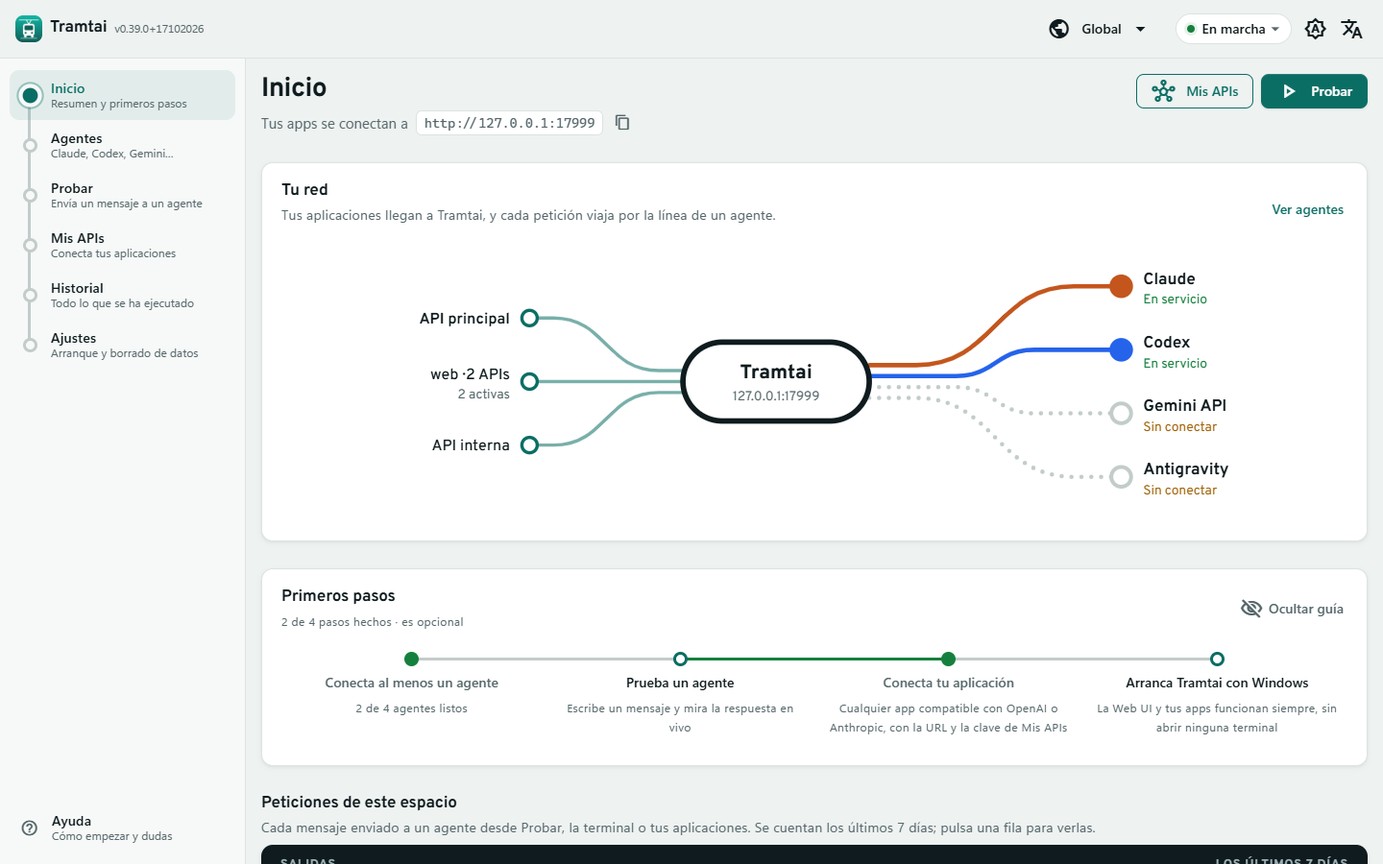
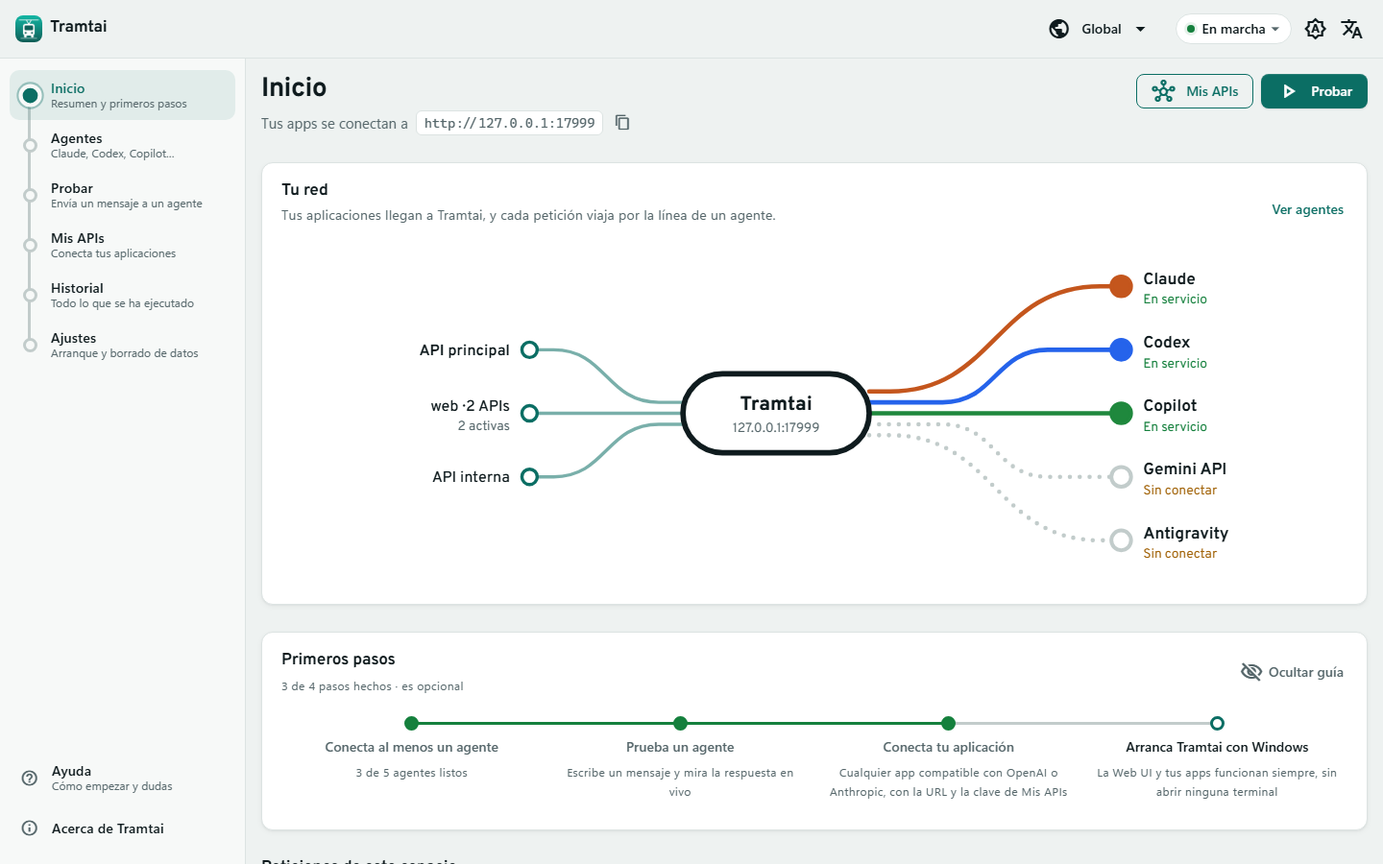
feat(site): sección de agentes, Copilot, funciones nuevas y capturas
- Portada: Copilot como quinta línea del mapa y en el texto de entrada.
- Sección «Agentes» con una tarjeta por agente: cómo se conecta y qué admite.
- Funciones de cuatro en cuatro: API propia con OpenAPI, Ayuda dentro de la app y agentes sin herramientas.
- Capturas nuevas de Agentes y de Probar con Ver como código; Inicio al día con Copilot.
- Ayuda del sitio: cómo conectar Copilot y su token.

diff --git a/site/index.html b/site/index.html
@@ -4,9 +4,9 @@
 <meta charset="utf-8">
 <meta name="viewport" content="width=device-width, initial-scale=1">
 <title>Tramtai · Tus agentes de IA como una API local</title>
-<meta name="description" content="Tramtai convierte Claude Code, Codex, Antigravity y la API de Gemini en una API local compatible con OpenAI y Anthropic, en tu propio equipo.">
+<meta name="description" content="Tramtai convierte Claude Code, Codex, GitHub Copilot CLI, Antigravity y la API de Gemini en una API local compatible con OpenAI y Anthropic, en tu propio equipo.">
 <meta property="og:title" content="Tramtai · Tus agentes de IA como una API local">
-<meta property="og:description" content="Claude Code, Codex, Antigravity y la API de Gemini como una API compatible con OpenAI y Anthropic, en tu equipo.">
+<meta property="og:description" content="Claude Code, Codex, GitHub Copilot CLI, Antigravity y la API de Gemini como una API compatible con OpenAI y Anthropic, en tu equipo.">
 <meta property="og:image" content="logo.png">
 <meta name="theme-color" content="#0b6e64" media="(prefers-color-scheme: light)">
 <meta name="theme-color" content="#0a1116" media="(prefers-color-scheme: dark)">
@@ -20,6 +20,7 @@
     <a class="marca" href="#"><img src="logo.png" alt="">Tramtai</a>
     <nav aria-label="Secciones">
       <a href="#como"><span lang="es">Cómo funciona</span><span lang="en">How it works</span></a>
+      <a href="#agentes"><span lang="es">Agentes</span><span lang="en">Agents</span></a>
       <a href="#funciones"><span lang="es">Funciones</span><span lang="en">Features</span></a>
       <a href="#descargar"><span lang="es">Descargar</span><span lang="en">Download</span></a>
       <a href="#privacidad"><span lang="es">Privacidad</span><span lang="en">Privacy</span></a>
@@ -49,8 +50,8 @@
           <span lang="en">Your AI agents, <em>as a local API</em>.</span>
         </h1>
         <p class="entrada">
-          <span lang="es">Tramtai convierte Claude Code, Codex, Antigravity y la API de Gemini en una API compatible con OpenAI y Anthropic que funciona en tu equipo. Conecta cualquier aplicación cambiando solo la URL.</span>
-          <span lang="en">Tramtai turns Claude Code, Codex, Antigravity and the Gemini API into an OpenAI- and Anthropic-compatible API that runs on your computer. Connect any app by changing just the URL.</span>
+          <span lang="es">Tramtai convierte Claude Code, Codex, GitHub Copilot CLI, Antigravity y la API de Gemini en una API compatible con OpenAI y Anthropic que funciona en tu equipo. Conecta cualquier aplicación cambiando solo la URL.</span>
+          <span lang="en">Tramtai turns Claude Code, Codex, GitHub Copilot CLI, Antigravity and the Gemini API into an OpenAI- and Anthropic-compatible API that runs on your computer. Connect any app by changing just the URL.</span>
         </p>
         <div class="acciones">
           <a class="boton principal" href="#descargar">
@@ -71,10 +72,11 @@
         <svg viewBox="0 0 520 320">
           <g fill="none" stroke-width="7" stroke-linecap="round" stroke-linejoin="round">
             <path d="M 40 160 L 150 160" stroke="var(--acento)"/>
-            <path d="M 270 148 L 284 148 C 324 148 318 70 358 70 L 378 70" stroke="var(--claude)"/>
-            <path d="M 270 156 L 292 156 C 322 156 318 130 348 130 L 378 130" stroke="var(--codex)"/>
-            <path d="M 270 164 L 292 164 C 322 164 318 190 348 190 L 378 190" stroke="var(--gemini)"/>
-            <path d="M 270 172 L 284 172 C 324 172 318 250 358 250 L 378 250" stroke="var(--antigravity)"/>
+            <path d="M 270 144 L 284 144 C 324 144 318 50 358 50 L 378 50" stroke="var(--claude)"/>
+            <path d="M 270 152 L 292 152 C 322 152 318 105 348 105 L 378 105" stroke="var(--codex)"/>
+            <path d="M 270 160 L 378 160" stroke="var(--copilot)"/>
+            <path d="M 270 168 L 292 168 C 322 168 318 215 348 215 L 378 215" stroke="var(--gemini)"/>
+            <path d="M 270 176 L 284 176 C 324 176 318 270 358 270 L 378 270" stroke="var(--antigravity)"/>
           </g>
           <circle cx="40" cy="160" r="11" fill="var(--superficie)" stroke="var(--acento)" stroke-width="5"/>
           <text x="40" y="196" text-anchor="middle" font-size="13" fill="var(--texto-suave)"><tspan lang="es">Tu app</tspan><tspan lang="en">Your app</tspan></text>
@@ -82,16 +84,18 @@
           <text x="210" y="157" text-anchor="middle" font-size="17" font-weight="700" fill="var(--texto)" style="font-family: var(--titulo)">Tramtai</text>
           <text x="210" y="176" text-anchor="middle" font-size="11" fill="var(--texto-suave)" style="font-family: var(--mono)">127.0.0.1</text>
           <g stroke-width="5" fill="var(--superficie)">
-            <circle cx="384" cy="70" r="10" stroke="var(--claude)"/>
-            <circle cx="384" cy="130" r="10" stroke="var(--codex)"/>
-            <circle cx="384" cy="190" r="10" stroke="var(--gemini)"/>
-            <circle cx="384" cy="250" r="10" stroke="var(--antigravity)"/>
+            <circle cx="384" cy="50" r="10" stroke="var(--claude)"/>
+            <circle cx="384" cy="105" r="10" stroke="var(--codex)"/>
+            <circle cx="384" cy="160" r="10" stroke="var(--copilot)"/>
+            <circle cx="384" cy="215" r="10" stroke="var(--gemini)"/>
+            <circle cx="384" cy="270" r="10" stroke="var(--antigravity)"/>
           </g>
           <g font-size="12.5" fill="var(--texto-suave)" text-anchor="start">
-            <text x="404" y="74">Claude Code</text>
-            <text x="404" y="134">Codex</text>
-            <text x="404" y="194">Gemini API</text>
-            <text x="404" y="254">Antigravity</text>
+            <text x="404" y="54">Claude Code</text>
+            <text x="404" y="109">Codex</text>
+            <text x="404" y="164">Copilot CLI</text>
+            <text x="404" y="219">Gemini API</text>
+            <text x="404" y="274">Antigravity</text>
           </g>
           <rect class="tranvia" x="-13" y="-7" width="26" height="14" rx="5" fill="var(--acento)"/>
         </svg>
@@ -112,7 +116,7 @@
         </li>
         <li>
           <h3><span lang="es">Conecta un agente</span><span lang="en">Connect an agent</span></h3>
-          <p class="suave"><span lang="es">Usa tu suscripción de Claude o ChatGPT para uso personal, o una clave de API. Necesitas tener instalado el CLI del agente.</span><span lang="en">Use your Claude or ChatGPT subscription for personal use, or an API key. The agent's CLI must be installed.</span></p>
+          <p class="suave"><span lang="es">Usa tu suscripción de Claude, ChatGPT o GitHub Copilot para uso personal, o una clave de API. Necesitas tener instalado el CLI del agente.</span><span lang="en">Use your Claude, ChatGPT or GitHub Copilot subscription for personal use, or an API key. The agent's CLI must be installed.</span></p>
         </li>
         <li>
           <h3><span lang="es">Apunta tu aplicación</span><span lang="en">Point your app</span></h3>
@@ -128,6 +132,44 @@ respuesta = cliente.chat.completions.create(
     model=<span class="s">"claude/sonnet"</span>,
     messages=[{<span class="s">"role"</span>: <span class="s">"user"</span>, <span class="s">"content"</span>: <span class="s">"Resume este contrato en tres puntos"</span>}],
 )</pre>
+    </div>
+  </section>
+
+  <section id="agentes">
+    <div class="envoltura">
+      <div class="cabeza">
+        <span class="etiqueta"><span lang="es">Agentes</span><span lang="en">Agents</span></span>
+        <h2><span lang="es">Cinco agentes, una sola API.</span><span lang="en">Five agents, one API.</span></h2>
+        <p class="suave"><span lang="es">Tu app pide <code>agente/modelo</code> en el campo <code>model</code> y Tramtai la lleva por la línea de ese agente.</span><span lang="en">Your app asks for <code>agent/model</code> in the <code>model</code> field and Tramtai sends it down that agent's line.</span></p>
+      </div>
+      <div class="agentes">
+        <article class="agente" style="--c: var(--claude)">
+          <header><span class="sigla">CL</span><h3>Claude Code</h3></header>
+          <p><span lang="es">Tu suscripción de Claude (uso personal) o una clave de API de Anthropic.</span><span lang="en">Your Claude subscription (personal use) or an Anthropic API key.</span></p>
+          <ul><li><span lang="es">Esfuerzo de bajo a máximo</span><span lang="en">Effort from low to maximum</span></li><li><span lang="es">Respuesta en vivo</span><span lang="en">Live answer</span></li></ul>
+        </article>
+        <article class="agente" style="--c: var(--codex)">
+          <header><span class="sigla">CX</span><h3>Codex</h3></header>
+          <p><span lang="es">Tu cuenta de ChatGPT (uso personal) o una clave de API de OpenAI.</span><span lang="en">Your ChatGPT account (personal use) or an OpenAI API key.</span></p>
+          <ul><li><span lang="es">Esfuerzo de bajo a muy alto</span><span lang="en">Effort from low to very high</span></li><li><span lang="es">Respuestas con esquema JSON</span><span lang="en">JSON schema answers</span></li></ul>
+        </article>
+        <article class="agente" style="--c: var(--copilot)">
+          <header><span class="sigla">GH</span><h3>GitHub Copilot CLI</h3></header>
+          <p><span lang="es">La sesión de <code>copilot login</code> o un token de GitHub. Funciona con Copilot Free, con el modelo automático; cada petición gasta créditos de tu plan.</span><span lang="en">Your <code>copilot login</code> session or a GitHub token. Works with Copilot Free, with the automatic model; every request uses credits from your plan.</span></p>
+          <ul><li><span lang="es">Muestra el modelo que eligió</span><span lang="en">Shows the model it picked</span></li><li><span lang="es">Respuesta en vivo</span><span lang="en">Live answer</span></li></ul>
+        </article>
+        <article class="agente" style="--c: var(--gemini)">
+          <header><span class="sigla">GM</span><h3>Gemini API</h3></header>
+          <p><span lang="es">Tu clave de la Gemini API, sin instalar ningún CLI.</span><span lang="en">Your Gemini API key, with no CLI to install.</span></p>
+          <ul><li><span lang="es">Respuesta en vivo</span><span lang="en">Live answer</span></li><li><span lang="es">Respuestas con esquema JSON</span><span lang="en">JSON schema answers</span></li></ul>
+        </article>
+        <article class="agente" style="--c: var(--antigravity)">
+          <header><span class="sigla">AG</span><h3>Antigravity</h3></header>
+          <p><span lang="es">Experimental: con una clave de la Gemini API, solo desde Probar y la terminal hasta pasar su prueba con el CLI real.</span><span lang="en">Experimental: with a Gemini API key, only from Try and the terminal until it passes its test with the real CLI.</span></p>
+          <ul><li><span lang="es">Carpeta privada que se borra al terminar</span><span lang="en">Private folder deleted afterwards</span></li></ul>
+        </article>
+      </div>
+      <p class="nota-agentes suave"><span lang="es">Cada agente vive en su propio módulo y se comprueba con su CLI real antes de usarse desde tus apps: un mensaje hostil no le hace leer archivos, ejecutar órdenes ni salir a la red.</span><span lang="en">Each agent lives in its own module and is checked with its real CLI before your apps can use it: a hostile message can't make it read files, run commands or reach the network.</span></p>
     </div>
   </section>
 
@@ -147,6 +189,16 @@ respuesta = cliente.chat.completions.create(
           <img class="solo-claro" src="capturas/mis-apis-claro.png" width="1440" height="900" loading="lazy" alt="Mis APIs en pestañas: tus APIs por grupo, con buscador, filtros por estado y agente, y páginas" data-alt-en="My APIs in tabs: your APIs by group, with search, status and agent filters, and pages">
           <img class="solo-oscuro" src="capturas/mis-apis-oscuro.png" width="1440" height="900" loading="lazy" alt="Mis APIs en pestañas: tus APIs por grupo, con buscador, filtros por estado y agente, y páginas" data-alt-en="My APIs in tabs: your APIs by group, with search, status and agent filters, and pages">
           <figcaption><span lang="es">Mis APIs: tus APIs por grupo, con buscador, filtros y páginas, y cómo conectar cada una</span><span lang="en">My APIs: your APIs by group, with search, filters and pages, and how to connect each one</span></figcaption>
+        </figure>
+        <figure class="captura">
+          <img class="solo-claro" src="capturas/agentes-claro.png" width="1440" height="900" loading="lazy" alt="Agentes: una fila por agente con su versión, cómo está conectado y el filtro por estado" data-alt-en="Agents: one row per agent with its version, how it is connected and the status filter">
+          <img class="solo-oscuro" src="capturas/agentes-oscuro.png" width="1440" height="900" loading="lazy" alt="Agentes: una fila por agente con su versión, cómo está conectado y el filtro por estado" data-alt-en="Agents: one row per agent with its version, how it is connected and the status filter">
+          <figcaption><span lang="es">Agentes: una fila por agente, con su versión y cómo está conectado</span><span lang="en">Agents: one row per agent, with its version and how it is connected</span></figcaption>
+        </figure>
+        <figure class="captura">
+          <img class="solo-claro" src="capturas/probar-claro.png" width="1440" height="900" loading="lazy" alt="Probar: la receta con Copilot y «Ver como código» con la petición lista en Python" data-alt-en="Try: the recipe with Copilot and “View as code” with the request ready in Python">
+          <img class="solo-oscuro" src="capturas/probar-oscuro.png" width="1440" height="900" loading="lazy" alt="Probar: la receta con Copilot y «Ver como código» con la petición lista en Python" data-alt-en="Try: the recipe with Copilot and “View as code” with the request ready in Python">
+          <figcaption><span lang="es">Probar: prueba la receta y cópiala como código para tu app</span><span lang="en">Try: test the recipe and copy it as code for your app</span></figcaption>
         </figure>
       </div>
     </div>
@@ -176,6 +228,11 @@ respuesta = cliente.chat.completions.create(
           <h3><span lang="es">Archivos de verdad</span><span lang="en">Real documents</span></h3>
           <p><span lang="es">Adjunta PDF, Word, Excel, PowerPoint o ZIP: Tramtai los convierte a texto antes de pasarlos al agente.</span><span lang="en">Attach PDF, Word, Excel, PowerPoint or ZIP files: Tramtai turns them into text before handing them to the agent.</span></p>
         </article>
+        <article class="tarjeta">
+          <div class="linea" style="background: var(--copilot)"></div>
+          <h3><span lang="es">API propia con OpenAPI</span><span lang="en">Native API with OpenAPI</span></h3>
+          <p><span lang="es">Con <code>/api/v1</code> sigues, cancelas y reintentas cada petición. Trae su especificación OpenAPI, y «Ver como código» te da la petición lista en curl, Python o Node.</span><span lang="en">With <code>/api/v1</code> you follow, cancel and retry every request. It ships its OpenAPI spec, and “View as code” gives you the request ready in curl, Python or Node.</span></p>
+        </article>
         <p class="grupo-funciones" role="heading" aria-level="3"><span lang="es">Controla</span><span lang="en">Control</span></p>
         <article class="tarjeta">
           <div class="linea" style="background: var(--claude)"></div>
@@ -190,7 +247,12 @@ respuesta = cliente.chat.completions.create(
         <article class="tarjeta">
           <div class="linea" style="background: var(--claude)"></div>
           <h3><span lang="es">Modelo y esfuerzo a tu medida</span><span lang="en">Your model, your effort</span></h3>
-          <p><span lang="es">Elige modelo en cada petición y, en Claude y Codex, cuánto razona el agente: de bajo a máximo.</span><span lang="en">Pick the model per request and, for Claude and Codex, how hard the agent reasons: from low to maximum.</span></p>
+          <p><span lang="es">Elige modelo en cada petición y, en Claude, Codex y Copilot (con un modelo concreto), cuánto razona el agente: de bajo a máximo.</span><span lang="en">Pick the model per request and, for Claude, Codex and Copilot (with a specific model), how hard the agent reasons: from low to maximum.</span></p>
+        </article>
+        <article class="tarjeta">
+          <div class="linea" style="background: var(--gemini)"></div>
+          <h3><span lang="es">Ayuda dentro de la app</span><span lang="en">Help inside the app</span></h3>
+          <p><span lang="es">Guías paso a paso, qué hacer ante cada error y un buscador, en español e inglés, sin salir de Tramtai.</span><span lang="en">Step-by-step guides, what to do about each error and a search box, in Spanish and English, without leaving Tramtai.</span></p>
         </article>
         <p class="grupo-funciones" role="heading" aria-level="3"><span lang="es">Protege</span><span lang="en">Protect</span></p>
         <article class="tarjeta">
@@ -207,6 +269,11 @@ respuesta = cliente.chat.completions.create(
           <div class="linea" style="background: var(--antigravity)"></div>
           <h3><span lang="es">Claves a salvo</span><span lang="en">Keys kept safe</span></h3>
           <p><span lang="es">Tus claves de proveedor quedan cifradas en el almacén del sistema, y las de tus APIs se ven una sola vez y se regeneran con un clic si se filtran.</span><span lang="en">Your provider keys stay encrypted in the system store, and your APIs' keys are shown only once and can be regenerated in one click if they leak.</span></p>
+        </article>
+        <article class="tarjeta">
+          <div class="linea" style="background: var(--copilot)"></div>
+          <h3><span lang="es">Agentes sin herramientas</span><span lang="en">Agents without tools</span></h3>
+          <p><span lang="es">Cada agente corre sin herramientas ni MCP, en una carpeta vacía que se borra al terminar y sin las claves de los demás.</span><span lang="en">Each agent runs without tools or MCP, in an empty folder that is deleted afterwards and without the other agents' keys.</span></p>
         </article>
       </div>
     </div>
@@ -282,8 +349,8 @@ respuesta = cliente.chat.completions.create(
   <div class="envoltura">
     <span>© 2026 Michael Scott B. · Tramtai · <a href="https://github.com/MscottB/Tramtai/blob/main/TERMINOS.md"><span lang="es">Términos de uso</span><span lang="en">Terms of use</span></a></span>
     <span>
-      <span lang="es">Claude, Codex, Gemini y Antigravity son marcas de sus respectivos dueños. Tramtai no está afiliado a ellos.</span>
-      <span lang="en">Claude, Codex, Gemini and Antigravity are trademarks of their respective owners. Tramtai is not affiliated with them.</span>
+      <span lang="es">Claude, Codex, GitHub Copilot, Gemini y Antigravity son marcas de sus respectivos dueños. Tramtai no está afiliado a ellos.</span>
+      <span lang="en">Claude, Codex, GitHub Copilot, Gemini and Antigravity are trademarks of their respective owners. Tramtai is not affiliated with them.</span>
     </span>
   </div>
 </footer>

diff --git a/site/ayuda.html b/site/ayuda.html
@@ -126,21 +126,24 @@ curl -fsSL https://raw.githubusercontent.com/MscottB/Tramtai/main/scripts/instal
     <section id="agentes">
       <h2><span lang="es">Conectar los agentes</span><span lang="en">Connect the agents</span></h2>
       <div lang="es">
-        <p>Tramtai usa los CLI oficiales de cada agente tal como se instalan: <a href="https://docs.anthropic.com/claude-code">Claude Code</a> (<code>claude</code>), <a href="https://developers.openai.com/codex/cli">Codex CLI</a> (<code>codex</code>) o una clave de la Gemini API. Antigravity (<code>agy</code>) es experimental. Abre la app y ve a <strong>Agentes</strong>: te dice qué le falta a cada uno.</p>
+        <p>Tramtai usa los CLI oficiales de cada agente tal como se instalan: <a href="https://docs.anthropic.com/claude-code">Claude Code</a> (<code>claude</code>), <a href="https://developers.openai.com/codex/cli">Codex CLI</a> (<code>codex</code>), <a href="https://docs.github.com/copilot/how-tos/set-up/install-copilot-cli">GitHub Copilot CLI</a> (<code>copilot</code>) o una clave de la Gemini API. Antigravity (<code>agy</code>) es experimental. Abre la app y ve a <strong>Agentes</strong>: te dice qué le falta a cada uno.</p>
         <h3>Con tu suscripción (uso personal)</h3>
         <p>Si ya usas Claude Pro/Max o ChatGPT en tu equipo, pulsa <strong>Usar mi suscripción</strong> en la página Agentes. Se aplica al momento. Es solo para uso personal y local, según los términos de cada proveedor. Tramtai nunca lee ni copia las sesiones de los CLI: el propio CLI usa la suya.</p>
+        <p><strong>Copilot:</strong> inicia sesión una vez con <code>copilot login</code> en una terminal y elige <strong>Usar mi suscripción</strong>. Funciona con Copilot Free, que solo tiene el modelo automático (<code>copilot</code>); cada petición gasta créditos de tu plan (premium requests). Con un plan de pago puedes pedir <code>copilot/&lt;modelo&gt;</code>. En Windows, Tramtai usa el <code>copilot.exe</code> que instala npm, no el envoltorio <code>copilot.cmd</code>.</p>
         <h3>Con una clave de API</h3>
         <p><code>tramtai claves guardar</code> la pide sin mostrarla y la guarda cifrada en el almacén del sistema: el Administrador de credenciales en Windows, el Llavero en macOS y el Secret Service en Linux (necesita <code>secret-tool</code>, del paquete <code>libsecret-tools</code>). Tramtai nunca la escribe en sus archivos y la usa desde la siguiente petición, sin reiniciar. La página <strong>Agentes</strong> te dice dónde queda en tu sistema.</p>
       </div>
       <div lang="en">
-        <p>Tramtai uses each agent's official CLI as installed: <a href="https://docs.anthropic.com/claude-code">Claude Code</a> (<code>claude</code>), <a href="https://developers.openai.com/codex/cli">Codex CLI</a> (<code>codex</code>) or a Gemini API key. Antigravity (<code>agy</code>) is experimental. Open the app and go to <strong>Agents</strong>: it tells you what each one is missing.</p>
+        <p>Tramtai uses each agent's official CLI as installed: <a href="https://docs.anthropic.com/claude-code">Claude Code</a> (<code>claude</code>), <a href="https://developers.openai.com/codex/cli">Codex CLI</a> (<code>codex</code>), <a href="https://docs.github.com/copilot/how-tos/set-up/install-copilot-cli">GitHub Copilot CLI</a> (<code>copilot</code>) or a Gemini API key. Antigravity (<code>agy</code>) is experimental. Open the app and go to <strong>Agents</strong>: it tells you what each one is missing.</p>
         <h3>With your subscription (personal use)</h3>
         <p>If you already use Claude Pro/Max or ChatGPT on your computer, click <strong>Use my subscription</strong> on the Agents page. It applies right away. It's for personal, local use only, under each provider's terms. Tramtai never reads or copies the CLIs' sessions: the CLI uses its own.</p>
+        <p><strong>Copilot:</strong> sign in once with <code>copilot login</code> in a terminal and choose <strong>Use my subscription</strong>. It works with Copilot Free, which only has the automatic model (<code>copilot</code>); every request uses credits from your plan (premium requests). With a paid plan you can ask for <code>copilot/&lt;model&gt;</code>. On Windows, Tramtai uses the <code>copilot.exe</code> that npm installs, not the <code>copilot.cmd</code> wrapper.</p>
         <h3>With an API key</h3>
         <p><code>tramtai claves guardar</code> asks for it without showing it and stores it encrypted in the system store: Credential Manager on Windows, Keychain on macOS and the Secret Service on Linux (it needs <code>secret-tool</code>, from the <code>libsecret-tools</code> package). Tramtai never writes it to its own files and uses it from the next request, without restarting. The <strong>Agents</strong> page tells you where it lives on your system.</p>
       </div>
 <pre class="codigo">tramtai claves guardar ANTHROPIC_API_KEY   # Claude
 tramtai claves guardar OPENAI_API_KEY      # Codex
+tramtai claves guardar COPILOT_GITHUB_TOKEN  # Copilot (token fine-grained con «Copilot Requests»)
 tramtai claves guardar GEMINI_API_KEY      # Gemini, Antigravity</pre>
     </section>
 
@@ -167,10 +170,10 @@ tramtai claves guardar GEMINI_API_KEY      # Gemini, Antigravity</pre>
         <p><strong>Which URL do I use?</strong> If your app already uses the OpenAI SDK, or a tool that lets you change the base URL (LangChain, n8n, an AI editor), the OpenAI one; if it uses the Anthropic SDK, the Anthropic one. If you need to send files, follow long jobs and resume them if the connection drops, cancel, retry or pick a fallback per request, the Tramtai API: its OpenAPI description is at <code>/api/v1/openapi.json</code>. In the app, <strong>My APIs</strong> compares the three with examples for each, and <strong>Try → View as code</strong> gives you your test ready to copy.</p>
       </div>
       <div lang="es">
-        <p>El campo <code>model</code> elige agente y modelo: <code>claude/sonnet</code>, <code>claude/haiku</code>, <code>codex</code>, <code>gemini/gemini-flash-latest</code> o un perfil como <code>perfil/rapido</code>. Sin <code>model</code> se usa el modelo predeterminado de <strong>Ajustes</strong>. En Claude y Codex, <code>reasoning_effort</code> elige cuánto razona el agente.</p>
+        <p>El campo <code>model</code> elige agente y modelo: <code>claude/sonnet</code>, <code>claude/haiku</code>, <code>codex</code>, <code>copilot</code>, <code>gemini/gemini-flash-latest</code> o un perfil como <code>perfil/rapido</code>. Sin <code>model</code> se usa el modelo predeterminado de <strong>Ajustes</strong>. En Claude, Codex y Copilot (con un modelo concreto), <code>reasoning_effort</code> elige cuánto razona el agente.</p>
       </div>
       <div lang="en">
-        <p>The <code>model</code> field picks agent and model: <code>claude/sonnet</code>, <code>claude/haiku</code>, <code>codex</code>, <code>gemini/gemini-flash-latest</code> or a profile like <code>perfil/rapido</code>. Without <code>model</code>, the default model from <strong>Settings</strong> is used. For Claude and Codex, <code>reasoning_effort</code> sets how hard the agent reasons.</p>
+        <p>The <code>model</code> field picks agent and model: <code>claude/sonnet</code>, <code>claude/haiku</code>, <code>codex</code>, <code>copilot</code>, <code>gemini/gemini-flash-latest</code> or a profile like <code>perfil/rapido</code>. Without <code>model</code>, the default model from <strong>Settings</strong> is used. For Claude, Codex and Copilot (with a specific model), <code>reasoning_effort</code> sets how hard the agent reasons.</p>
       </div>
 <pre class="codigo"><span class="k">from</span> openai <span class="k">import</span> OpenAI
 
@@ -370,8 +373,8 @@ tramtai ejecutar -f informe.pdf "Resume el documento en tres puntos"</pre>
       </details>
       <details id="terminos">
         <summary><span lang="es">¿Puedo usar mi suscripción en vez de una clave de API?</span><span lang="en">Can I use my subscription instead of an API key?</span></summary>
-        <p lang="es">Solo para uso personal y local. Los términos de Anthropic y OpenAI pueden no permitir usar una suscripción personal de forma automatizada o para alimentar otras aplicaciones, y tu cuenta podría limitarse o suspenderse: ese riesgo es tuyo, y por eso Tramtai te pide aceptarlo antes de activarla. Para tus aplicaciones, usa una clave de API. Todo el detalle está en los <a href="https://github.com/MscottB/Tramtai/blob/main/TERMINOS.md">términos de uso</a>.</p>
-        <p lang="en">Only for personal, local use. Anthropic's and OpenAI's terms may not allow using a personal subscription in an automated way or to power other apps, and your account could be limited or suspended: that risk is yours, which is why Tramtai asks you to accept it before turning it on. For your apps, use an API key. Full details in the <a href="https://github.com/MscottB/Tramtai/blob/main/TERMINOS.md">terms of use</a>.</p>
+        <p lang="es">Solo para uso personal y local. Los términos de Anthropic, OpenAI y GitHub pueden no permitir usar una suscripción personal de forma automatizada o para alimentar otras aplicaciones, y tu cuenta podría limitarse o suspenderse: ese riesgo es tuyo, y por eso Tramtai te pide aceptarlo antes de activarla. Para tus aplicaciones, usa una clave de API. Todo el detalle está en los <a href="https://github.com/MscottB/Tramtai/blob/main/TERMINOS.md">términos de uso</a>.</p>
+        <p lang="en">Only for personal, local use. Anthropic's, OpenAI's and GitHub's terms may not allow using a personal subscription in an automated way or to power other apps, and your account could be limited or suspended: that risk is yours, which is why Tramtai asks you to accept it before turning it on. For your apps, use an API key. Full details in the <a href="https://github.com/MscottB/Tramtai/blob/main/TERMINOS.md">terms of use</a>.</p>
       </details>
       <details>
         <summary><span lang="es">¿Puedo usarlo en mi empresa?</span><span lang="en">Can I use it at my company?</span></summary>
@@ -399,8 +402,8 @@ tramtai ejecutar -f informe.pdf "Resume el documento en tres puntos"</pre>
   <div class="envoltura">
     <span>© 2026 Michael Scott B. · Tramtai · <a href="https://github.com/MscottB/Tramtai/blob/main/TERMINOS.md"><span lang="es">Términos de uso</span><span lang="en">Terms of use</span></a></span>
     <span>
-      <span lang="es">Claude, Codex, Gemini y Antigravity son marcas de sus respectivos dueños. Tramtai no está afiliado a ellos.</span>
-      <span lang="en">Claude, Codex, Gemini and Antigravity are trademarks of their respective owners. Tramtai is not affiliated with them.</span>
+      <span lang="es">Claude, Codex, GitHub Copilot, Gemini y Antigravity son marcas de sus respectivos dueños. Tramtai no está afiliado a ellos.</span>
+      <span lang="en">Claude, Codex, GitHub Copilot, Gemini and Antigravity are trademarks of their respective owners. Tramtai is not affiliated with them.</span>
     </span>
   </div>
 </footer>

diff --git a/site/estilo.css b/site/estilo.css
@@ -10,7 +10,7 @@
   --borde: #dce3e2; --borde-fuerte: #c2cccb;
   --texto: #0f1b1e; --texto-suave: #55666a;
   --acento: #0b6e64; --acento-texto: #ffffff; --acento-suave: rgba(11, 110, 100, 0.09);
-  --claude: #c4561d; --codex: #2563eb; --gemini: #7c3aed; --antigravity: #db2777;
+  --claude: #c4561d; --codex: #2563eb; --copilot: #1f883d; --gemini: #7c3aed; --antigravity: #db2777;
   --tablero: #0f1b1e; --tablero-texto: #eef3f2; --tablero-suave: #9fb3b8; --cifra: #ffcf5c;
   --sombra: 0 1px 2px rgba(15, 27, 30, .05), 0 8px 24px rgba(15, 27, 30, .06);
   --radio: 14px;
@@ -26,7 +26,7 @@
     --borde: #1f2f38; --borde-fuerte: #2d404b;
     --texto: #e5edf0; --texto-suave: #93a5ac;
     --acento: #2dd4bf; --acento-texto: #042f2b; --acento-suave: rgba(45, 212, 191, .11);
-    --claude: #f28a4f; --codex: #5b8def; --gemini: #a78bfa; --antigravity: #f472b6;
+    --claude: #f28a4f; --codex: #5b8def; --copilot: #3fb950; --gemini: #a78bfa; --antigravity: #f472b6;
     --tablero: #060b0e;
     --sombra: 0 1px 2px rgba(0, 0, 0, .3), 0 8px 24px rgba(0, 0, 0, .25);
     color-scheme: dark;
@@ -37,7 +37,7 @@
   --borde: #1f2f38; --borde-fuerte: #2d404b;
   --texto: #e5edf0; --texto-suave: #93a5ac;
   --acento: #2dd4bf; --acento-texto: #042f2b; --acento-suave: rgba(45, 212, 191, .11);
-  --claude: #f28a4f; --codex: #5b8def; --gemini: #a78bfa; --antigravity: #f472b6;
+  --claude: #f28a4f; --codex: #5b8def; --copilot: #3fb950; --gemini: #a78bfa; --antigravity: #f472b6;
   --tablero: #060b0e;
   --sombra: 0 1px 2px rgba(0, 0, 0, .3), 0 8px 24px rgba(0, 0, 0, .25);
   color-scheme: dark;
@@ -126,7 +126,17 @@ section { padding: 72px 0; }
 .codigo .k { color: #7dd3c8; }
 
 /* Funciones */
-.rejilla { display: grid; grid-template-columns: repeat(3, 1fr); gap: 16px; }
+.rejilla { display: grid; grid-template-columns: repeat(4, 1fr); gap: 16px; }
+/* Agentes: una tarjeta por agente con su sigla y el color de su línea (--c) */
+.agentes { display: grid; grid-template-columns: repeat(auto-fit, minmax(min(100%, 200px), 1fr)); gap: 16px; }
+.agente { background: var(--superficie); border: 1px solid var(--borde); border-top: 6px solid var(--c); border-radius: var(--radio); padding: 20px; }
+.agente header { display: flex; align-items: center; gap: 10px; margin-bottom: 10px; }
+.agente h3 { margin: 0; font-size: 1.02rem; }
+.sigla { flex: none; display: grid; place-items: center; width: 34px; height: 34px; border-radius: 50%; border: 4px solid var(--c); font: 700 .72rem var(--titulo); color: var(--texto); }
+.agente p { color: var(--texto-suave); font-size: .92rem; margin: 0 0 10px; }
+.agente ul { margin: 0; padding-left: 18px; color: var(--texto-suave); font-size: .86rem; }
+.agente code { font: .82rem var(--mono); }
+.nota-agentes { margin: 20px 0 0; font-size: .92rem; max-width: 52em; }
 .tarjeta { background: var(--superficie); border: 1px solid var(--borde); border-radius: var(--radio); padding: 22px; }
 .tarjeta .linea { width: 34px; height: 6px; border-radius: 3px; margin-bottom: 16px; background: var(--acento); }
 .tarjeta h3 { margin-bottom: 8px; }
@@ -151,9 +161,11 @@ section { padding: 72px 0; }
 footer { border-top: 1px solid var(--borde); padding: 28px 0 40px; font-size: .875rem; color: var(--texto-suave); }
 footer .envoltura { display: flex; flex-wrap: wrap; gap: 16px; justify-content: space-between; }
 
+@media (max-width: 1100px) {
+  .rejilla { grid-template-columns: 1fr 1fr; }
+}
 @media (max-width: 900px) {
   .portada .envoltura, .tablero { grid-template-columns: 1fr; }
-  .rejilla { grid-template-columns: 1fr 1fr; }
   .barra nav { display: none; }
   .idioma { margin-left: auto; }
 }
